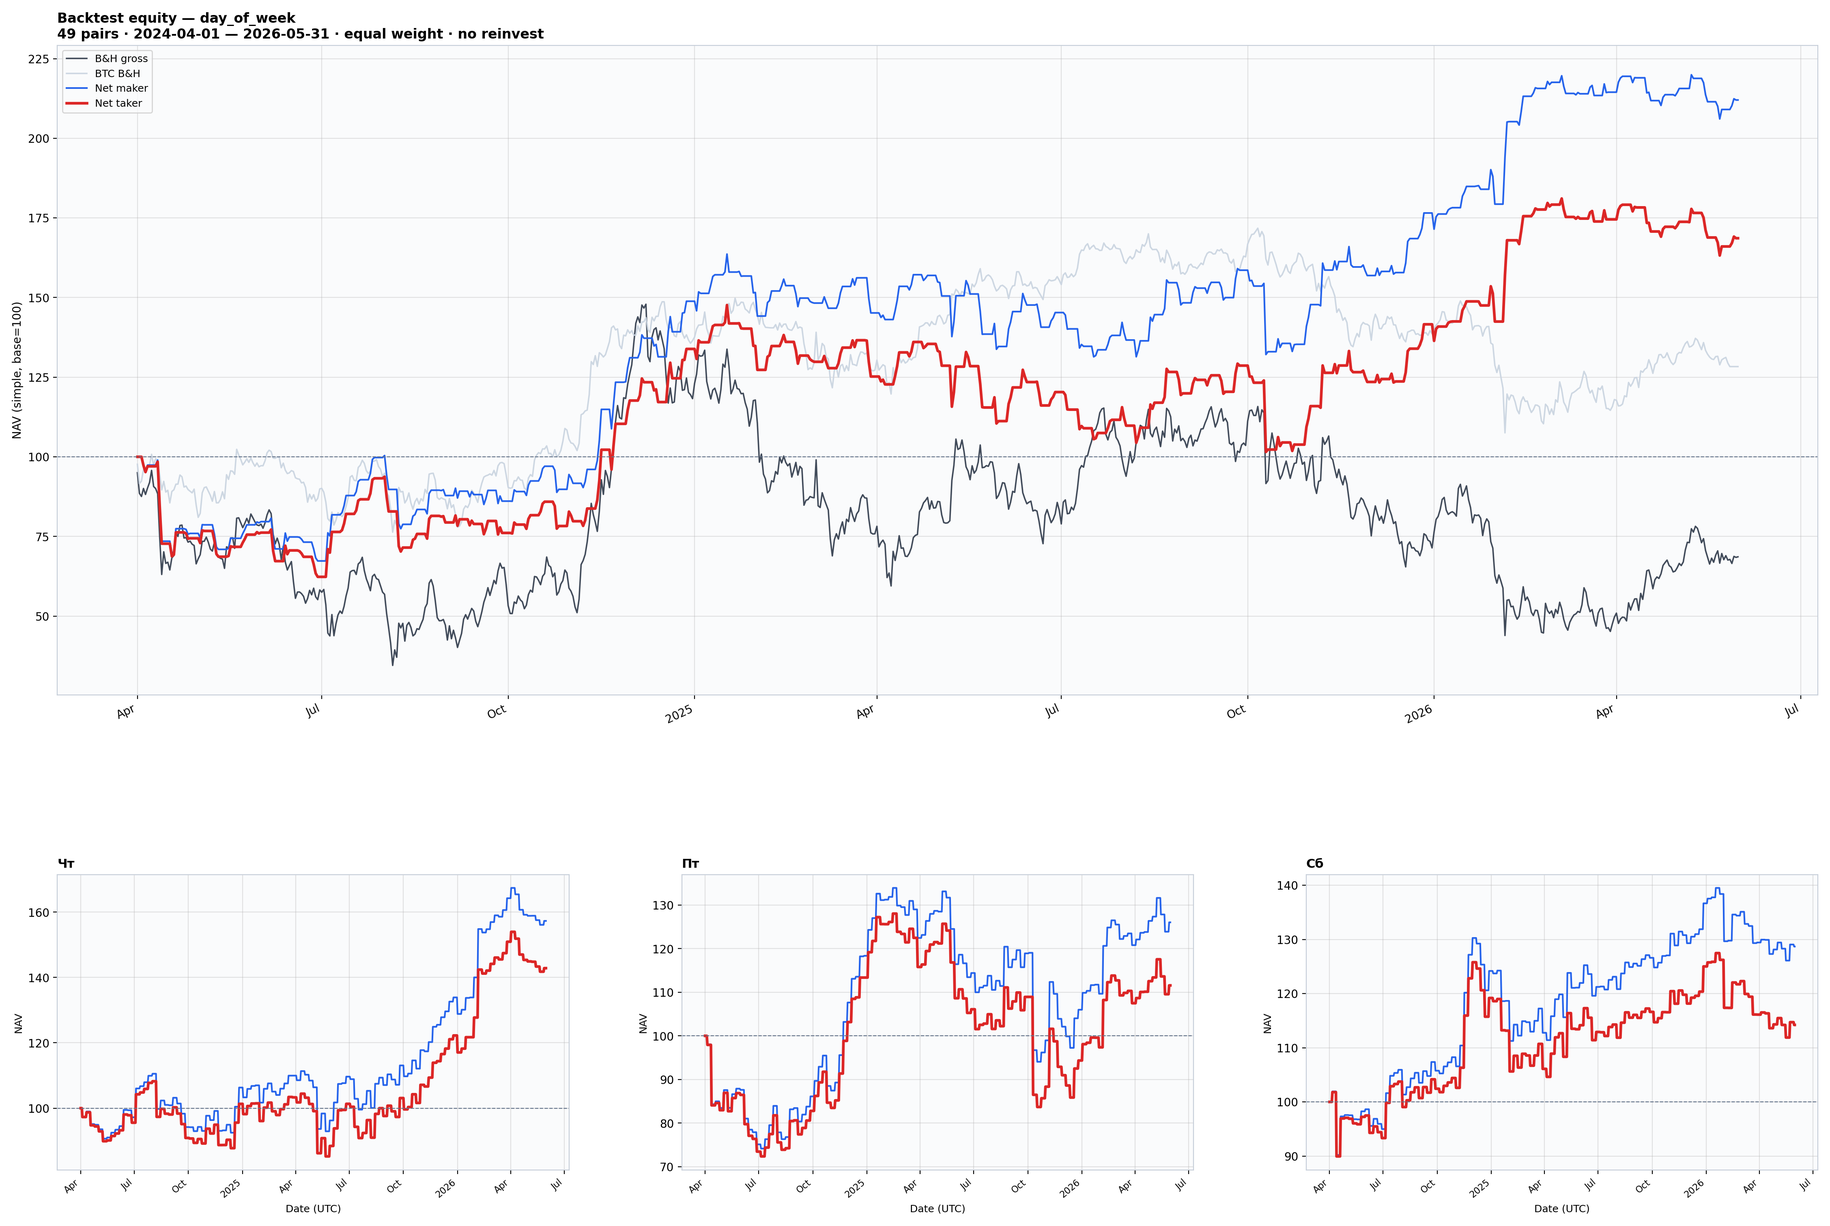
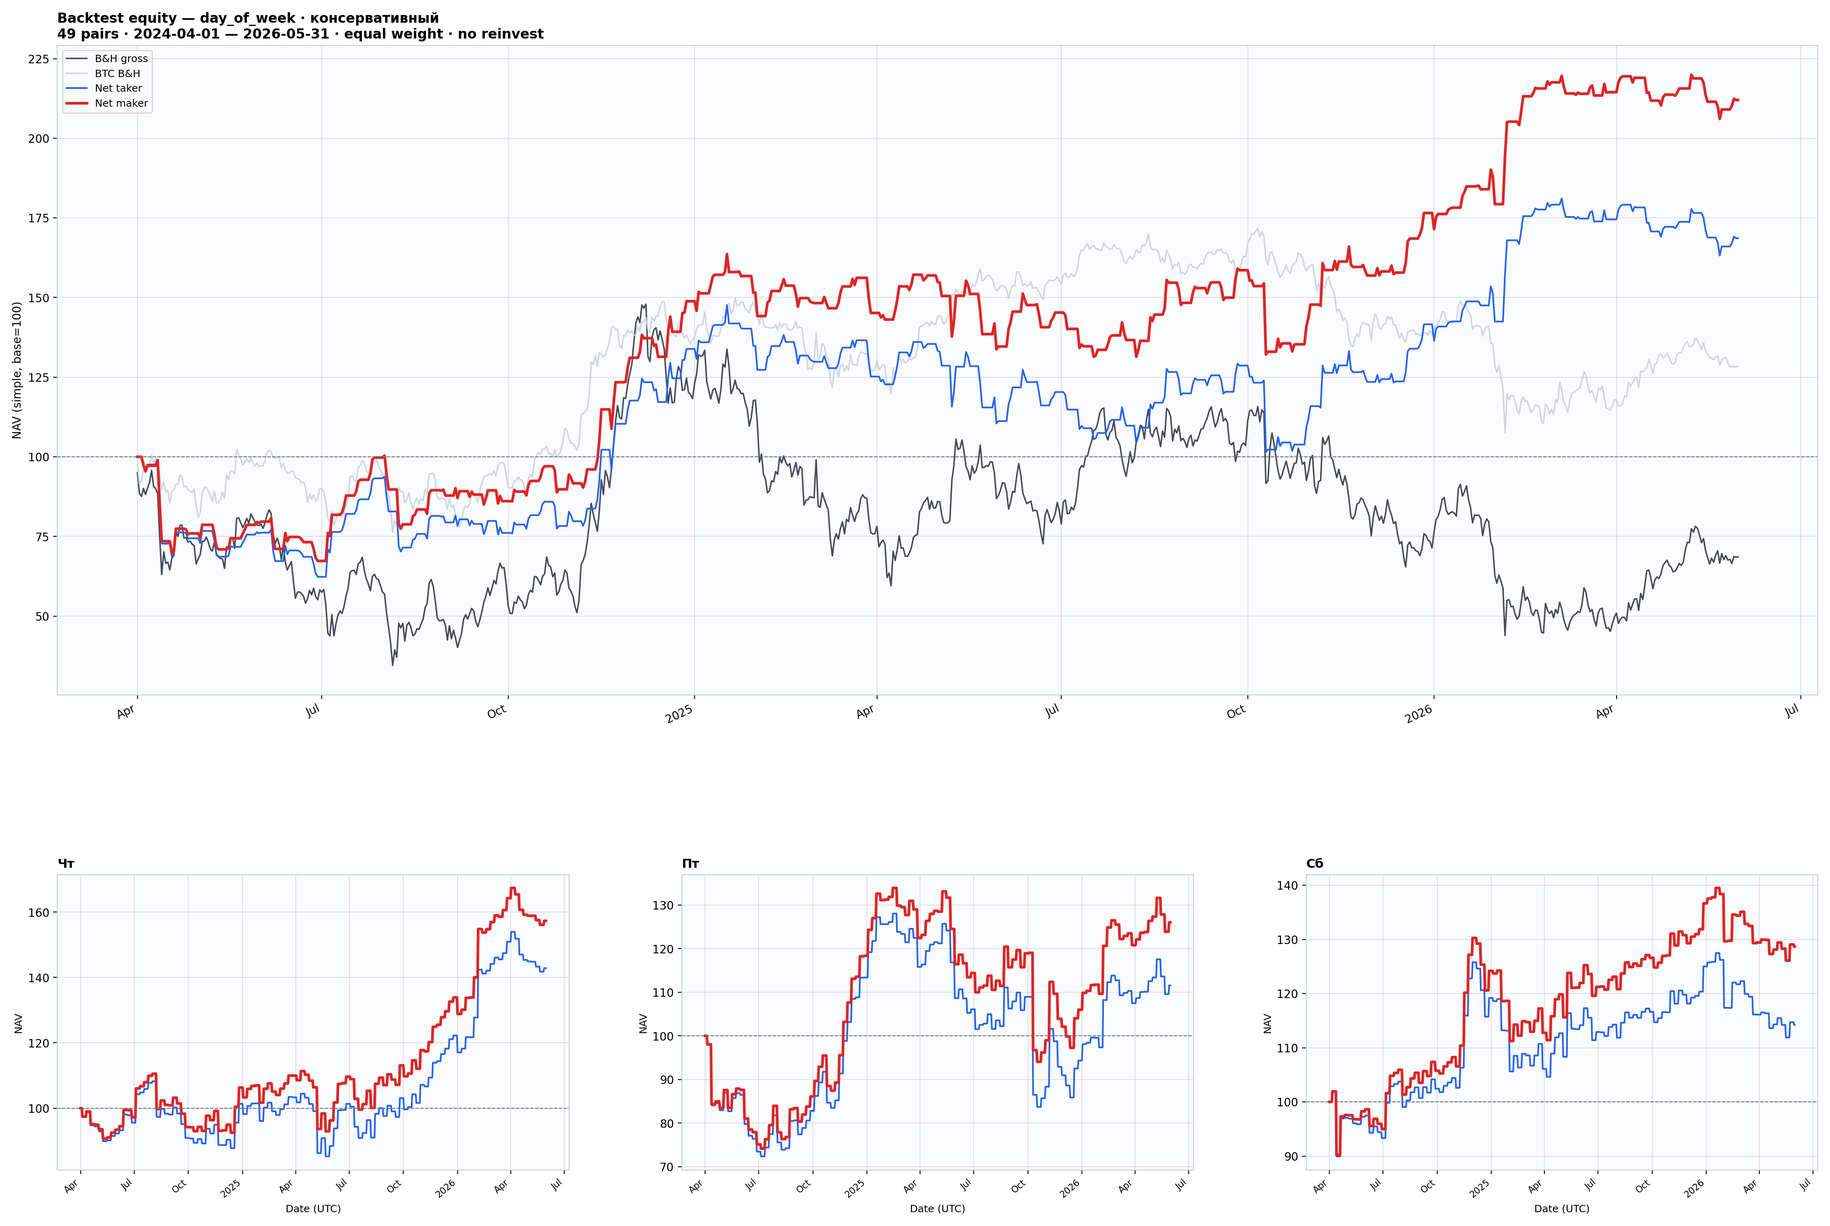
README.md: обновлены сценарии бэктеста

diff --git a/utils/backtest/strategies/day_of_week.py b/utils/backtest/strategies/day_of_week.py
@@ -34,7 +34,11 @@ from crypto_research.utils.backtest.plots import (
     save_weekday_corr_plot,
 )
 from crypto_research.utils.backtest.report import BacktestResult, save_backtest_report
-from crypto_research.utils.backtest.scenarios import SCENARIO_MAXIMAL_VAL, SCENARIO_OPTIMISTIC
+from crypto_research.utils.backtest.scenarios import (
+    SCENARIO_CONSERVATIVE,
+    SCENARIO_OPTIMISTIC,
+    scenario_label_ru,
+)
 from crypto_research.utils.pipeline.logger import get_logger
 
 log = get_logger("strategy_day_of_week")
@@ -60,9 +64,9 @@ STRATEGY_DESCRIPTION_OPTIMISTIC = (
 )
 
 
-STRATEGY_DESCRIPTION_MAXIMAL_VAL = (
-    "Консервативный baseline: все 49 пар, val-период, без реинвестирования. "
-    "Те же сигналы day_of_week — для сравнения с оптимистичным сценарием.\n"
+STRATEGY_DESCRIPTION_CONSERVATIVE = (
+    "Консервативный сценарий: val-период, все 49 пар, без реинвестирования. "
+    "Baseline для сравнения с оптимистичным.\n"
     "  Пятница, суббота: long на open → close. Доходность = (close−open)/open×100%.\n"
     "  Четверг: short на open → close. Доходность short = (open−close)/open×100% "
     "(эквивалент −(close−open)/open).\n"
@@ -177,8 +181,8 @@ def _aligned_benchmark_returns(
 def _strategy_description(ctx: DayOfWeekBacktestContext) -> str:
     if ctx.scenario == SCENARIO_OPTIMISTIC:
         return STRATEGY_DESCRIPTION_OPTIMISTIC
-    if ctx.scenario == SCENARIO_MAXIMAL_VAL:
-        return STRATEGY_DESCRIPTION_MAXIMAL_VAL
+    if ctx.scenario == SCENARIO_CONSERVATIVE:
+        return STRATEGY_DESCRIPTION_CONSERVATIVE
     return STRATEGY_DESCRIPTION_MAXIMAL
 
 
@@ -245,6 +249,10 @@ def run_day_of_week_backtest(
 
     path_kw = _path_kwargs(ctx)
     tag_args = (STRATEGY_NAME, len(pairs), ctx.from_date, ctx.to_date)
+    scenario_labels = {
+        SCENARIO_CONSERVATIVE: scenario_label_ru(SCENARIO_CONSERVATIVE),
+        SCENARIO_OPTIMISTIC: scenario_label_ru(SCENARIO_OPTIMISTIC),
+    }
     save_backtest_report(result, backtest_report_path(*tag_args, **path_kw))
     save_equity_curve_plot(
         portfolio,
@@ -252,6 +260,7 @@ def run_day_of_week_backtest(
         btc=btc_df,
         trading_weekdays=TRADING_WEEKDAYS,
         strategy=STRATEGY_NAME,
+        scenario_label=scenario_labels.get(ctx.scenario),
         from_date=ctx.from_date,
         to_date=ctx.to_date,
         n_pairs=len(pairs),

diff --git a/utils/backtest/scenarios.py b/utils/backtest/scenarios.py
@@ -1,4 +1,4 @@
-"""Сценарии бэктеста: maximal, maximal_val, optimistic."""
+"""Сценарии бэктеста: maximal, conservative, optimistic."""
 
 from __future__ import annotations
 
@@ -17,14 +17,44 @@ from crypto_research.utils.pipeline.paths import (
 from crypto_research.utils.weekday.pair_selection import select_day_of_week_train_pairs
 
 SCENARIO_MAXIMAL = "maximal"
-SCENARIO_MAXIMAL_VAL = "maximal_val"
+SCENARIO_CONSERVATIVE = "conservative"
 SCENARIO_OPTIMISTIC = "optimistic"
+
+# Устаревшее имя CLI (обратная совместимость)
+SCENARIO_MAXIMAL_VAL = SCENARIO_CONSERVATIVE
+
+SCENARIO_ALIASES: dict[str, str] = {
+    "maximal_val": SCENARIO_CONSERVATIVE,
+}
+
+SCENARIO_LABEL_RU: dict[str, str] = {
+    SCENARIO_CONSERVATIVE: "консервативный",
+    SCENARIO_OPTIMISTIC: "оптимистичный",
+    SCENARIO_MAXIMAL: "maximal",
+}
+
+SCENARIO_REPORT_HEADER: dict[str, str] = {
+    SCENARIO_CONSERVATIVE: (
+        "Сценарий: консервативный (val, все 49 пар — baseline для сравнения с оптимистичным)"
+    ),
+    SCENARIO_OPTIMISTIC: (
+        "Сценарий: оптимистичный (val, train-отбор пар — свой набор на Чт / Пт / Сб)"
+    ),
+}
 
 VAL_FROM = TEMPORAL_VAL_FROM
 VAL_TO = TEMPORAL_VAL_TO
 OPTIMISTIC_TRAIN_FROM = TEMPORAL_TRAIN_FROM
 OPTIMISTIC_TRAIN_TO = TEMPORAL_TRAIN_TO
 OPTIMISTIC_MAX_PAIR_START = TEMPORAL_POOL_MAX_PAIR_START
+
+
+def normalize_scenario(name: str) -> str:
+    return SCENARIO_ALIASES.get(name, name)
+
+
+def scenario_label_ru(name: str) -> str | None:
+    return SCENARIO_LABEL_RU.get(normalize_scenario(name))
 
 
 def resolve_optimistic_pairs_by_weekday(

diff --git a/utils/backtest/plots.py b/utils/backtest/plots.py
@@ -20,12 +20,12 @@ PLOT_DPI = 200
 FIG_W = 16.0
 FIG_H = 7.0
 
-COLOR_TAKER = "#dc2626"
-COLOR_MAKER = "#2563eb"
+COLOR_MAKER = "#dc2626"
+COLOR_TAKER = "#2563eb"
 COLOR_BH = "#374151"
 COLOR_BTC = "#cbd5e1"
-LW_TAKER = 2.4
-LW_MAKER = 1.5
+LW_MAKER = 2.4
+LW_TAKER = 1.5
 LW_BENCH = 1.3
 
 
@@ -64,8 +64,8 @@ def _plot_equity_lines(
         ax.plot(dates, nav_bh, color=COLOR_BH, linewidth=LW_BENCH, label="B&H gross", alpha=0.95)
     if include_benchmarks and nav_btc is not None:
         ax.plot(dates, nav_btc, color=COLOR_BTC, linewidth=LW_BENCH, label="BTC B&H", alpha=0.95)
-    ax.plot(dates, nav_maker, color=COLOR_MAKER, linewidth=LW_MAKER, label="Net maker")
     ax.plot(dates, nav_taker, color=COLOR_TAKER, linewidth=LW_TAKER, label="Net taker")
+    ax.plot(dates, nav_maker, color=COLOR_MAKER, linewidth=LW_MAKER, label="Net maker")
     ax.axhline(INITIAL_NAV, color="#64748b", linewidth=0.8, linestyle="--")
     ax.grid(True, alpha=0.35)
     if show_legend:
@@ -92,6 +92,7 @@ def save_equity_curve_plot(
     btc: pl.DataFrame | None = None,
     trading_weekdays: tuple[int, ...] = (3, 4, 5),
     strategy: str,
+    scenario_label: str | None = None,
     from_date: datetime,
     to_date: datetime,
     n_pairs: int,
@@ -138,8 +139,11 @@ def save_equity_curve_plot(
     )
     ax_main.set_ylabel("NAV (simple, base=100)", fontsize=10)
     ax_main.set_xlabel("")
+    title_line = f"Backtest equity — {strategy}"
+    if scenario_label:
+        title_line = f"{title_line} · {scenario_label}"
     ax_main.set_title(
-        f"Backtest equity — {strategy}\n"
+        f"{title_line}\n"
         f"{n_pairs} pairs · {from_date:%Y-%m-%d} — {to_date:%Y-%m-%d} · equal weight · no reinvest",
         loc="left",
         fontsize=12,

diff --git a/utils/backtest/report.py b/utils/backtest/report.py
@@ -10,7 +10,7 @@ import numpy as np
 
 from crypto_research.utils.backtest.analytics import PortfolioAnalytics, WEEKDAY_NAMES
 from crypto_research.utils.backtest.fees import FeeSchedule
-from crypto_research.utils.backtest.scenarios import SCENARIO_MAXIMAL_VAL, SCENARIO_OPTIMISTIC
+from crypto_research.utils.backtest.scenarios import SCENARIO_REPORT_HEADER
 
 RISK_FREE_NOTE = "Sharpe / Sortino: безрисковая ставка = 0% (стандарт для крипто)."
 _PAIRS_PER_LINE = 11
@@ -281,10 +281,9 @@ def format_backtest_report(result: BacktestResult) -> str:
         result.strategy_description,
         "",
     ]
-    if result.scenario == SCENARIO_OPTIMISTIC:
-        lines.append("Сценарий: optimistic (val, пары по train-отбор)")
-    elif result.scenario == SCENARIO_MAXIMAL_VAL:
-        lines.append("Сценарий: conservative (val, все 49 пар — baseline для сравнения с optimistic)")
+    header = SCENARIO_REPORT_HEADER.get(result.scenario)
+    if header:
+        lines.append(header)
     lines.extend([
         f"Период (UTC): {result.from_date:%Y-%m-%d} .. {result.to_date:%Y-%m-%d}",
         f"Пар (union): {len(result.pairs)}",

diff --git a/utils/backtest/cli.py b/utils/backtest/cli.py
@@ -3,9 +3,10 @@ from pathlib import Path
 
 from crypto_research.utils.pipeline.paths import DEFAULT_DATA_DIR
 from crypto_research.utils.backtest.scenarios import (
+    SCENARIO_CONSERVATIVE,
     SCENARIO_MAXIMAL,
-    SCENARIO_MAXIMAL_VAL,
     SCENARIO_OPTIMISTIC,
+    normalize_scenario,
 )
 
 
@@ -18,12 +19,13 @@ def parse_backtest_args() -> argparse.Namespace:
     )
     parser.add_argument(
         "--scenario",
-        choices=[SCENARIO_MAXIMAL, SCENARIO_MAXIMAL_VAL, SCENARIO_OPTIMISTIC],
+        choices=[SCENARIO_MAXIMAL, SCENARIO_CONSERVATIVE, SCENARIO_OPTIMISTIC, "maximal_val"],
         default=SCENARIO_MAXIMAL,
+        type=normalize_scenario,
         help=(
             "maximal — 49 пар, полный период; "
-            "maximal_val — 49 пар, val-период (консервативный baseline); "
-            "optimistic — val-период, пары по train (знак Δ + 2/3 лет), свой набор на Чт/Пт/Сб"
+            "conservative — 49 пар, val (консервативный); "
+            "optimistic — val, train-отбор пар (оптимистичный)"
         ),
     )
     parser.add_argument(

diff --git a/utils/backtest/context.py b/utils/backtest/context.py
@@ -8,11 +8,12 @@ from pathlib import Path
 
 from crypto_research.utils.backtest.fees import DEFAULT_FEE, FeeSchedule
 from crypto_research.utils.backtest.scenarios import (
+    SCENARIO_CONSERVATIVE,
     SCENARIO_MAXIMAL,
-    SCENARIO_MAXIMAL_VAL,
     SCENARIO_OPTIMISTIC,
     VAL_FROM,
     VAL_TO,
+    normalize_scenario,
 )
 from crypto_research.utils.pipeline.dates import parse_iso_utc
 from crypto_research.utils.pipeline.load_pairs import _DEFAULT_WORKERS
@@ -37,8 +38,8 @@ class BacktestContext:
 
 
 def build_backtest_context(args) -> BacktestContext:
-    scenario = args.scenario
-    if scenario in (SCENARIO_OPTIMISTIC, SCENARIO_MAXIMAL_VAL):
+    scenario = normalize_scenario(args.scenario)
+    if scenario in (SCENARIO_OPTIMISTIC, SCENARIO_CONSERVATIVE):
         from_date = parse_iso_utc(args.from_date or VAL_FROM)
         to_date = parse_iso_utc(args.to_date or VAL_TO)
     else:

diff --git a/README.md b/README.md
@@ -167,10 +167,10 @@ Out-of-sample период совпадает с **val-окном** исслед
 
 #### Сценарии на val
 
-| Сценарий                      | Описание                                                                                                                                                                                                                                                                                                                                                   |
-| ----------------------------- | ---------------------------------------------------------------------------------------------------------------------------------------------------------------------------------------------------------------------------------------------------------------------------------------------------------------------------------------------------------- |
-| **Консервативный (baseline)** | Все **49 пар** на каждый торговый день; net taker.                                                                                                                                                                                                                                                                                                         |
-| **Оптимистичный**             | Пары отобраны на train: знак Δ к BASE по целевой колонке + подтверждение в **≥ 2/3** eligible годов train-периода: год учитывается только при ≥40 торговых дней и ≥15 дней нужного weekday; в не менее чем двух третях таких лет знак эффекта совпал с общим train. Отдельный список на каждый день: **Чт — 33**, **Пт — 31**, **Сб — 23** пар (union 40). |
+| Сценарий           | CLI                       | Описание                                                                                                                                                                                                                                                                                                                                                   |
+| ------------------ | ------------------------- | ---------------------------------------------------------------------------------------------------------------------------------------------------------------------------------------------------------------------------------------------------------------------------------------------------------------------------------------------------------- |
+| **Консервативный** | `--scenario conservative` | Все **49 пар** на каждый торговый день; net taker.                                                                                                                                                                                                                                                                                                         |
+| **Оптимистичный**  | `--scenario optimistic`   | Пары отобраны на train: знак Δ к BASE по целевой колонке + подтверждение в **≥ 2/3** eligible годов train-периода: год учитывается только при ≥40 торговых дней и ≥15 дней нужного weekday; в не менее чем двух третях таких лет знак эффекта совпал с общим train. Отдельный список на каждый день: **Чт — 33**, **Пт — 31**, **Сб — 23** пар (union 40). |
 
 Критерии отбора и списки пар: [weekday_statistics_49pairs_20220101_20240401.log](research_outputs/day_of_week/statistics/weekday_statistics_49pairs_20220101_20240401.log) (секция «Отбор пар по train»).
 
@@ -203,6 +203,10 @@ Out-of-sample период совпадает с **val-окном** исслед
 - **Риск:** Max DD −37.7% — сопоставим с BTC (−37.4%) и значительно лучше B&H 49 (−70.3%).
 - **Вывод:** без отбора пар и при **пессимистичном исполнении** (taker) стратегия превосходит оба бенчмарка на out-of-sample периоде. Это **нижняя граница** ожидаемой эффективности; maker на том же universe лучше по всем группам метрик.
 
+**Рис. 2. Консервативный сценарий** — 49 пар, val (2024-04-01 — 2026-05-31). Красная линия — net maker (целевое исполнение), синяя — net taker; серые — B&H 49 и BTC.
+
+![Консервативный сценарий — equity curve](research_outputs/day_of_week/backtest/plots/equity_curve_49pairs_20240401_20260531.png)
+
 **Оптимистичный maker** (40 пар, train-отбор, val, maker-комиссии)
 
 - **Vs консервативный taker:** CAGR +48.3% vs +27.3% (+21 п.п.), Max DD −30.0% vs −37.7% (на 7.7 п.п. лучше), Sharpe 1.27 vs 0.67 (~×1.9), восстановление **27 дн.** vs **140 дн.**
@@ -210,13 +214,9 @@ Out-of-sample период совпадает с **val-окном** исслед
 - **IR** (net taker vs B&H 49): **0.60 → 0.73** с train-отбором — качество альфы растёт вместе с доходностью.
 - **Вывод:** **Оптимистичный сценарий** (maker + train-отбор) демонстрирует устойчивую историческую эффективность на out-of-sample периоде. Это позволяет рассматривать стратегию как **самостоятельный альфа-генератор** (базовую конфигурацию), которая может служить отправной точкой для дальнейших улучшений.
 
-![Equity curve — консервативный baseline](research_outputs/day_of_week/backtest/plots/equity_curve_49pairs_20240401_20260531.png)
+**Рис. 3. Оптимистичный сценарий** — 40 пар (train-отбор), val. Красная — net maker; нижний ряд — вклад по дням (Чт / Пт / Сб).
 
-_49 пар, val-период. Net maker/taker, B&H 49 и BTC B&H._
-
-![Equity curve — оптимистичный сценарий](research_outputs/day_of_week/backtest/plots/equity_curve_optimistic_thu33_pt31_sb23_20240401_20260531.png)
-
-_40 пар (train-отбор), val-период. Net maker/taker, B&H 49 и BTC B&H; нижний ряд — вклад по дням (Чт/Пт/Сб)._
+![Оптимистичный сценарий — equity curve](research_outputs/day_of_week/backtest/plots/equity_curve_optimistic_thu33_pt31_sb23_20240401_20260531.png)
 
 #### Вклад по дням недели (оптимистичный, net maker)
 
@@ -266,6 +266,6 @@ _40 пар (train-отбор), val-период. Net maker/taker, B&H 49 и BTC 
 Запуск бэктестов:
 
 ```bash
-python3 backtester.py day_of_week --scenario maximal_val    # консервативный baseline
-python3 backtester.py day_of_week --scenario optimistic     # оптимистичный (train-отбор)
+python3 backtester.py day_of_week --scenario conservative   # консервативный
+python3 backtester.py day_of_week --scenario optimistic     # оптимистичный
 ```
